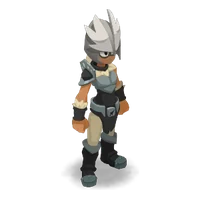
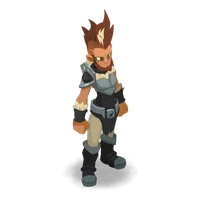
Forgelance : rendu DofusDB sans casque, avec coiffes et capes
Les numéros d'apparence du Forgelance dessinent un casque et une tête détachée. DofusDB fabrique un jeton de rendu correct pour la classe et les objets portés : le jeu le demande quand une coiffe ou une cape est équipée, sinon il affiche l'image locale tirée de ce rendu. Tête et couleurs d'origine (choix de tête et de couleurs masqués pour le Forgelance), recomposition de la tête retirée.

Claude-Session: https://claude.ai/code/session_01TgfgsFbfimzPE6UbE45j36

diff --git a/js/ui.js b/js/ui.js
@@ -182,60 +182,26 @@ const lookLocal = (cls, sex, hi) => `assets/look/${cls}_${sex === "f" ? "f" : "m
 function lookUrl(c, opts = {}) {
   const L = LK.CLASS_LOOKS[c.cls]; if (!L) return null; const sx = c.sex === "f" ? "f" : "m"; const D2 = L[sx]; const hi = Math.max(0, Math.min(D2.heads.length - 1, c.head || 0));
   const skins = [D2.body, D2.heads[hi]];
-  if (!opts.bare && c.equip) ["coiffe", "cape"].forEach((sl) => { const it = S && S.items[c.equip[sl]]; const sk = it && LK.ITEM_SKINS[it.tpl]; if (sk && !(c.cls === "forge" && sl === "coiffe")) skins.push(sk); }); // le moteur de rendu ne pose aucune coiffe sur le Forgelance
+  const worn = []; if (!opts.bare && c.equip) ["coiffe", "cape"].forEach((sl) => { const it = S && S.items[c.equip[sl]]; const sk = it && LK.ITEM_SKINS[it.tpl]; if (sk) { skins.push(sk); worn.push(+it.tpl.slice(1)); } });
+  if (c.cls === "forge") return worn.length ? forgeLook(sx, worn) : lookLocal("forge", sx, 0); // Forgelance : rendu DofusDB (voir forgeLook)
   const pal = LK.PALETTES.find((p) => p.id === (opts.palette || c.palette)) || LK.PALETTES[0];
   const cols = D2.colors.slice(); if (pal && pal.c) pal.c.forEach((v, i) => (cols[i + 1] = v));
   if (skins.length === 2 && (!pal || !pal.c)) return lookLocal(c.cls, sx, hi);
-  if (c.cls === "forge") return forgeLook(skins, cols, sx, hi); // Forgelance : tête recollée sur le cou (voir forgeLook)
   const look = `{1|${skins.join(",")}|${cols.map((v, i) => `${i + 1}=${v}`).join(",")}|140}`;
   let hex = ""; for (const ch of unescape(encodeURIComponent(look))) hex += ch.charCodeAt(0).toString(16).padStart(2, "0");
   return `https://static.ankama.com/dofus/renderer/look/${hex}/full/1/200_200-10.png`;
 }
-/* Forgelance : les moteurs de rendu (Ankama et DofusDB) dessinent sa tête à côté du corps et sans ses couleurs.
-   On demande à DofusDB (qui autorise la lecture des pixels) le corps seul et la tête seule, on cale la tête sur l'ombre au sol
-   (repère commun aux deux images), on la pose sur le cou et on colore la peau quand elle arrive pâle. Résultat gardé en mémoire et dans le navigateur. */
-const FORGE_NECK = [-290, -420], FORGE_KEY = "idlus-forge-v1", FORGE = { map: null, wait: {} };
-const forgeHex = (skins, cols) => { let x = ""; for (const ch of `{1|${skins.join(",")}|${cols.map((v, i) => `${i + 1}=${v}`).join(",")}|140}`) x += ch.charCodeAt(0).toString(16).padStart(2, "0"); return `https://renderer.dofusdb.fr/look/${x}/full/1/300_300.png`; };
-function forgeStore() { if (!FORGE.map) { FORGE.map = new Map(); try { (JSON.parse(localStorage.getItem(FORGE_KEY)) || []).forEach(([k, v]) => FORGE.map.set(k, v)); } catch (e) { /* stockage indisponible */ } } return FORGE.map; }
-function forgeLook(skins, cols, sx, hi) {
-  const key = skins.join("-") + "_" + cols.join("-"), m = forgeStore();
-  if (m.has(key)) return { src: m.get(key), key };
-  if (!FORGE.wait[key]) FORGE.wait[key] = forgeCompose(skins, cols).then((url) => {
-    m.delete(key); m.set(key, url); while (m.size > 12) m.delete(m.keys().next().value);
-    try { localStorage.setItem(FORGE_KEY, JSON.stringify([...m])); } catch (e) { /* stockage plein : on garde en mémoire */ }
-    document.querySelectorAll(`img[data-fk="${key}"]`).forEach((im) => (im.src = url));
+/* Forgelance : avec ses numéros d'apparence, le moteur de rendu dessine un casque et pose la tête à côté du corps.
+   DofusDB sait le dessiner correctement (tête par défaut, couleurs d'origine) à partir d'un jeton qu'il fabrique pour la classe
+   et les objets portés : on demande le jeton, puis l'image. Les coiffes et capes s'affichent ; ni choix de tête ni couleurs. */
+const FORGE = { tok: {}, wait: {} };
+function forgeLook(sx, items) {
+  const key = sx + (items.length ? "-" + items.join("-") : ""), url = (t) => { let x = ""; for (const ch of t) x += ch.charCodeAt(0).toString(16).padStart(2, "0"); return `https://renderer.dofusdb.fr/kool/${x}/full/1/300_300.png`; };
+  if (FORGE.tok[key]) return url(FORGE.tok[key]);
+  if (!FORGE.wait[key]) FORGE.wait[key] = fetch(`https://api.dofusdb.fr/look?breedId=20&sexe=${sx}${items.map((i) => "&itemIds[]=" + i).join("")}`).then((r) => r.json()).then((t) => {
+    if (typeof t !== "string") return; FORGE.tok[key] = t; document.querySelectorAll(`img[data-fk="${key}"]`).forEach((im) => (im.src = url(t)));
   }).catch(() => {}); // hors ligne : l'image locale reste
-  return { src: lookLocal("forge", sx, hi), key };
-}
-const forgeLoad = (u) => new Promise((ok, ko) => { const i = new Image(); i.crossOrigin = "anonymous"; i.onload = () => ok(i); i.onerror = ko; i.src = u; });
-const forgePix = (img) => { const c = document.createElement("canvas"); c.width = img.naturalWidth; c.height = img.naturalHeight; const x = c.getContext("2d"); x.drawImage(img, 0, 0); return { c, d: x.getImageData(0, 0, c.width, c.height) }; };
-function forgeShadow(d, W, H) { // bas de l'ombre au sol, largeur et centre juste au-dessus
-  const on = (x, y) => d[(y * W + x) * 4 + 3] > 4; let y = H - 1; while (y > 0) { let x = 0; while (x < W && !on(x, y)) x++; if (x < W) break; y--; }
-  const yy = y - 6; let x0 = W, x1 = -1; for (let x = 0; x < W; x++) if (on(x, yy)) { if (x < x0) x0 = x; x1 = x; } return { y, w: Math.max(1, x1 - x0), cx: (x0 + x1) / 2 };
-}
-function forgeTint(d, cols) { // certaines têtes arrivent avec la peau non colorée (beige pâle) : on lui donne la couleur de peau ; le casque reste en métal
-  const skin = [(cols[0] >> 16) & 255, (cols[0] >> 8) & 255, cols[0] & 255];
-  for (let i = 0; i < d.length; i += 4) {
-    if (!d[i + 3]) continue; const r = d[i], g = d[i + 1], b = d[i + 2], mx = Math.max(r, g, b), mn = Math.min(r, g, b);
-    if (mx < 150 || mx - mn < 18 || !(r > b + 15 && r >= g) || (mx - mn) / mx > 0.3) continue;
-    const k = Math.min(1.2, (r * 0.3 + g * 0.59 + b * 0.11) / 215); d[i] = Math.min(255, skin[0] * k); d[i + 1] = Math.min(255, skin[1] * k); d[i + 2] = Math.min(255, skin[2] * k);
-  }
-}
-async function forgeCompose(skins, cols) {
-  const [B, Hd] = await Promise.all([forgeLoad(forgeHex([skins[0], ...skins.slice(2)], cols)), forgeLoad(forgeHex([skins[1]], cols))]);
-  const b = forgePix(B), h = forgePix(Hd), W = b.c.width, H = b.c.height, HW = h.c.width, HH = h.c.height, d = h.d.data;
-  const sb = forgeShadow(b.d.data, W, H), sh = forgeShadow(d, HW, HH), k = sb.w / sh.w;
-  let cut = HH, run = 0, best = 0; // l'ombre de la tête seule est sous la plus grande bande vide : on l'efface
-  for (let y = 0; y < HH; y++) { let x = 0; while (x < HW && d[(y * HW + x) * 4 + 3] <= 4) x++; if (x === HW) { if (++run > best) { best = run; cut = y; } } else run = 0; }
-  d.fill(0, cut * HW * 4); forgeTint(d, cols); h.c.getContext("2d").putImageData(h.d, 0, 0);
-  const pad = 400, out = document.createElement("canvas"); out.width = W; out.height = H + pad; const o = out.getContext("2d");
-  o.drawImage(B, 0, pad); o.drawImage(h.c, sb.cx - sh.cx * k + FORGE_NECK[0], pad + sb.y - sh.y * k + FORGE_NECK[1], HW * k, HH * k);
-  // recadrage comme les rendus Ankama (200 × 200, personnage sur ~90 % de la hauteur, centré)
-  const od = o.getImageData(0, 0, out.width, out.height).data; let x0 = W, y0 = out.height, x1 = 0, y1 = 0;
-  for (let y = 0; y < out.height; y++) for (let x = 0; x < W; x++) if (od[(y * W + x) * 4 + 3] > 4) { if (x < x0) x0 = x; if (x > x1) x1 = x; if (y < y0) y0 = y; if (y > y1) y1 = y; }
-  const S = 300, sc = Math.min(S * 0.905 / (y1 - y0), S * 0.9 / (x1 - x0)), fin = document.createElement("canvas"); fin.width = fin.height = S;
-  fin.getContext("2d").drawImage(out, x0, y0, x1 - x0, y1 - y0, (S - (x1 - x0) * sc) / 2, S * 0.045, (x1 - x0) * sc, (y1 - y0) * sc);
-  return fin.toDataURL("image/webp", 0.9);
+  return { src: lookLocal("forge", sx, 0), key };
 }
 const lookImg = (c, cls = "look", opts) => { const u = lookUrl(c, opts); if (!u) return ""; const fb = lookLocal(c.cls, c.sex, c.head || 0);
   if (typeof u === "object") return `<img class="${cls}" src="${u.src}" data-fk="${u.key}" alt="" loading="lazy">`; // Forgelance recomposé (image locale en attendant)
@@ -246,8 +212,8 @@ function lookSheet(c) {
   openSheet(`<h2>Apparence de ${h(c.name)}</h2>
     <div class="lookprev">${lookImg(c, "lookbig")}</div>
     <div class="small"><b>Sexe</b> <span class="seg">${[["m", "Homme"], ["f", "Femme"]].map(([v, n]) => `<button data-act="looksex" data-v="${v}" aria-pressed="${sx === v}">${n}</button>`).join("")}</span></div>
-    ${`<div class="small"><b>Tête</b><div class="headpick">${L[sx].heads.map((_, i) => `<button class="${(c.head || 0) === i ? "on" : ""}" data-act="lookhead" data-v="${i}">${`<img src="${lookLocal(c.cls, sx, i)}" alt="">`}</button>`).join("")}</div></div>`}
-    ${c.cls === "forge" ? `<p class="xs muted">Le Forgelance porte son casque de classe ; les coiffes ne s'affichent pas encore sur lui (les capes, si).</p>` : ""}<div class="small"><b>Couleurs</b><div class="palpick">${LK.PALETTES.map((p) => { const cols = L[sx].colors.slice(); if (p.c) p.c.forEach((v, i) => (cols[i + 1] = v)); return `<button class="${(c.palette || "classique") === p.id ? "on" : ""}" data-act="lookpal" data-v="${p.id}"><span class="sw">${cols.slice(1, 5).map((v) => `<i style="background:#${v.toString(16).padStart(6, "0")}"></i>`).join("")}</span>${h(p.name)}</button>`; }).join("")}</div></div>
+    ${c.cls === "forge" ? "" : `<div class="small"><b>Tête</b><div class="headpick">${L[sx].heads.map((_, i) => `<button class="${(c.head || 0) === i ? "on" : ""}" data-act="lookhead" data-v="${i}">${`<img src="${lookLocal(c.cls, sx, i)}" alt="">`}</button>`).join("")}</div></div>`}
+    ${c.cls === "forge" ? `<p class="xs muted">Le Forgelance s'affiche avec sa tête et ses couleurs d'origine ; ses coiffes et capes apparaissent.</p>` : ""}<div class="small" ${c.cls === "forge" ? 'style="display:none"' : ""}><b>Couleurs</b><div class="palpick">${LK.PALETTES.map((p) => { const cols = L[sx].colors.slice(); if (p.c) p.c.forEach((v, i) => (cols[i + 1] = v)); return `<button class="${(c.palette || "classique") === p.id ? "on" : ""}" data-act="lookpal" data-v="${p.id}"><span class="sw">${cols.slice(1, 5).map((v) => `<i style="background:#${v.toString(16).padStart(6, "0")}"></i>`).join("")}</span>${h(p.name)}</button>`; }).join("")}</div></div>
     <p class="xs muted">${Object.keys(LK.ITEM_SKINS).length} coiffes et capes apparaissent déjà sur les héros ; les autres arriveront au fil des mises à jour.</p>
     <div><button class="btn primary" data-act="closesheet">Terminé</button></div>`);
 }
@@ -519,11 +485,11 @@ function classInfo(id, sex, hd) {
 }
 /* Choix de la tête dès la création du héros */
 function headPick(id, sex) {
-  const L = LK.CLASS_LOOKS[id]; const sx = sex === "f" ? "f" : "m"; if (!L || L[sx].heads.length < 2) return "";
+  const L = LK.CLASS_LOOKS[id]; const sx = sex === "f" ? "f" : "m"; if (!L || id === "forge" || L[sx].heads.length < 2) return "";
   const cur = Math.min(ui.startHead || 0, L[sx].heads.length - 1);
   return `<div class="stack" style="gap:4px"><span class="small muted">Tête</span><div class="headpick">${L[sx].heads.map((_, i) => `<button class="${cur === i ? "on" : ""}" data-act="starthead" data-v="${i}" aria-pressed="${cur === i}"><img src="${lookLocal(id, sx, i)}" alt="Tête ${i + 1}"></button>`).join("")}</div></div>`;
 }
-const startHeadOf = (id, sex) => { const L = LK.CLASS_LOOKS[id]; const n = L ? L[sex === "f" ? "f" : "m"].heads.length : 1; return Math.min(ui.startHead || 0, n - 1); };
+const startHeadOf = (id, sex) => { const L = LK.CLASS_LOOKS[id]; const n = L ? L[sex === "f" ? "f" : "m"].heads.length : 1; return id === "forge" ? 0 : Math.min(ui.startHead || 0, n - 1); };
 const hasPublicSave = () => { try { return !!localStorage.getItem("dofousxen-save"); } catch (e) { return false; } };
 function renderStart() {
   renderStatus(); renderNav();

diff --git a/CLAUDE.md b/CLAUDE.md
@@ -6,7 +6,7 @@ Idle game de fan inspiré de DOFUS, par Mathis. Jeu : https://mathiss29.github.i
 - SPA en JavaScript sans build : `index.html`, `css/style.css`, `js/gamedata.js`, `js/looks.js`, `js/data.js`, `js/engine.js` (combat, stasis, équilibrage), `js/systems.js`, `js/ui.js` (rendu, CHANGELOG, GAME_VERSION).
 - Sauvegarde dans localStorage sous la clé `dofousxen-save` (ne pas renommer). Migrations via `E.VERSION` dans engine.js.
 - PWA : `sw.js` (VERSION = version du jeu ; MEDIA = cache des images, à incrémenter si une image change de contenu sans changer de nom), `manifest.webmanifest`, `icons/`.
-- Visuels : `assets/look` (héros en pied, rendus Ankama ; le Forgelance est recomposé par le jeu à partir du rendu DofusDB, voir `forgeLook` dans ui.js), `assets/ui` (icônes officielles), `assets/m`, `assets/s`, `assets/i`.
+- Visuels : `assets/look` (héros en pied, rendus Ankama ; le Forgelance vient du rendu « kool » de DofusDB, voir `forgeLook` dans ui.js), `assets/ui` (icônes officielles), `assets/m`, `assets/s`, `assets/i`.
 - Thèmes : `data-theme="emerald"` (défaut) et `"dark"` (Nuit violette).
 
 ## Publier une version
